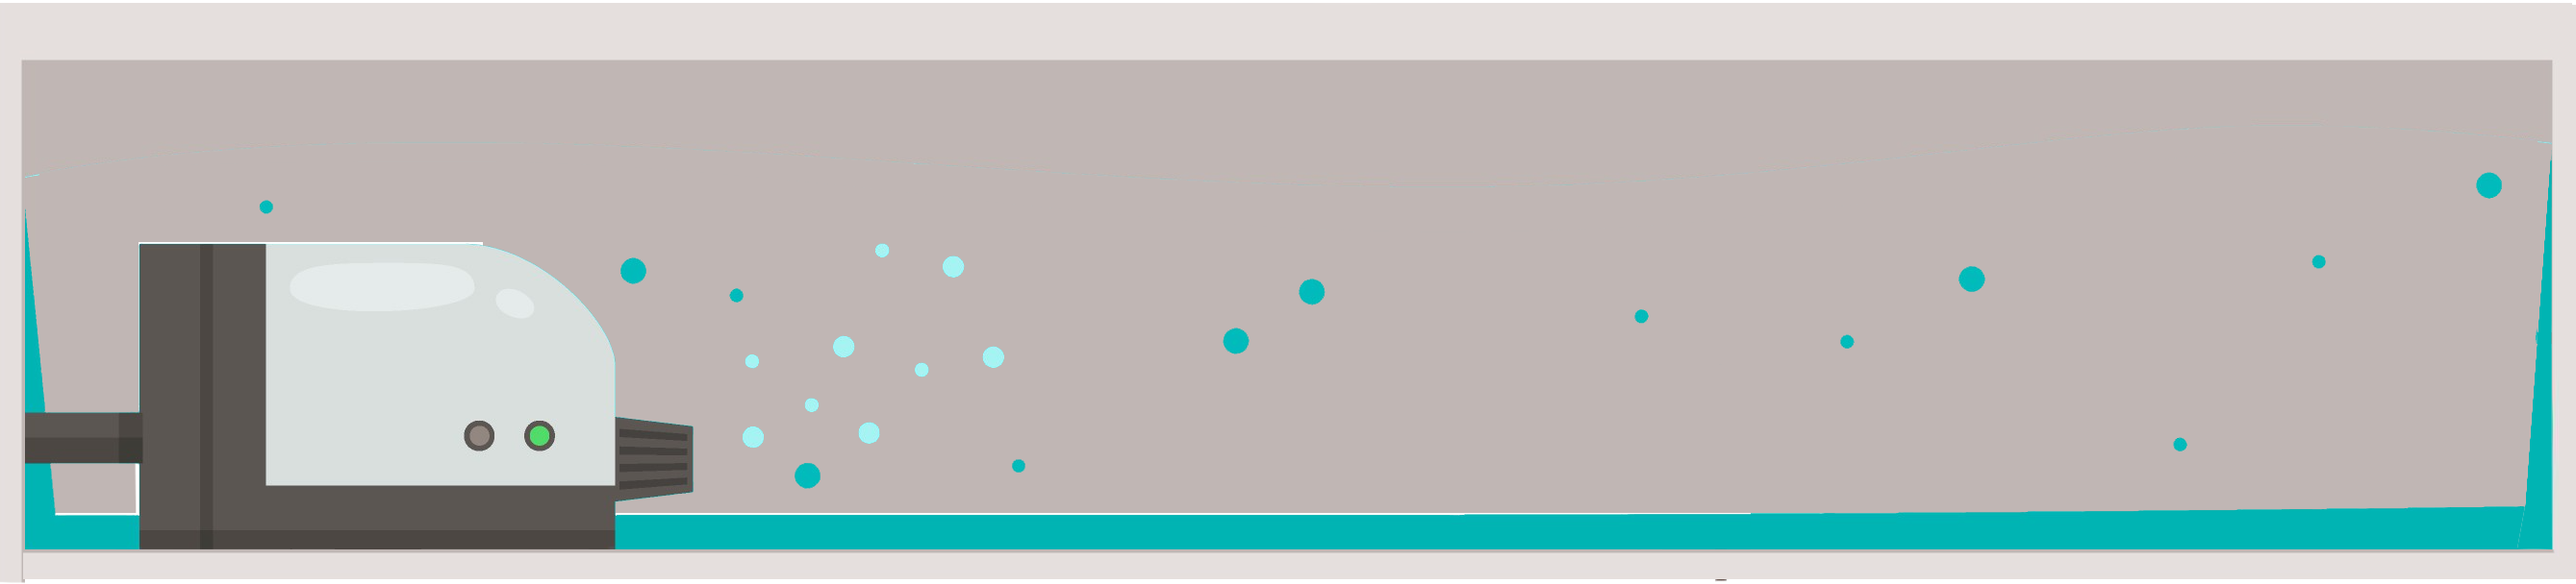
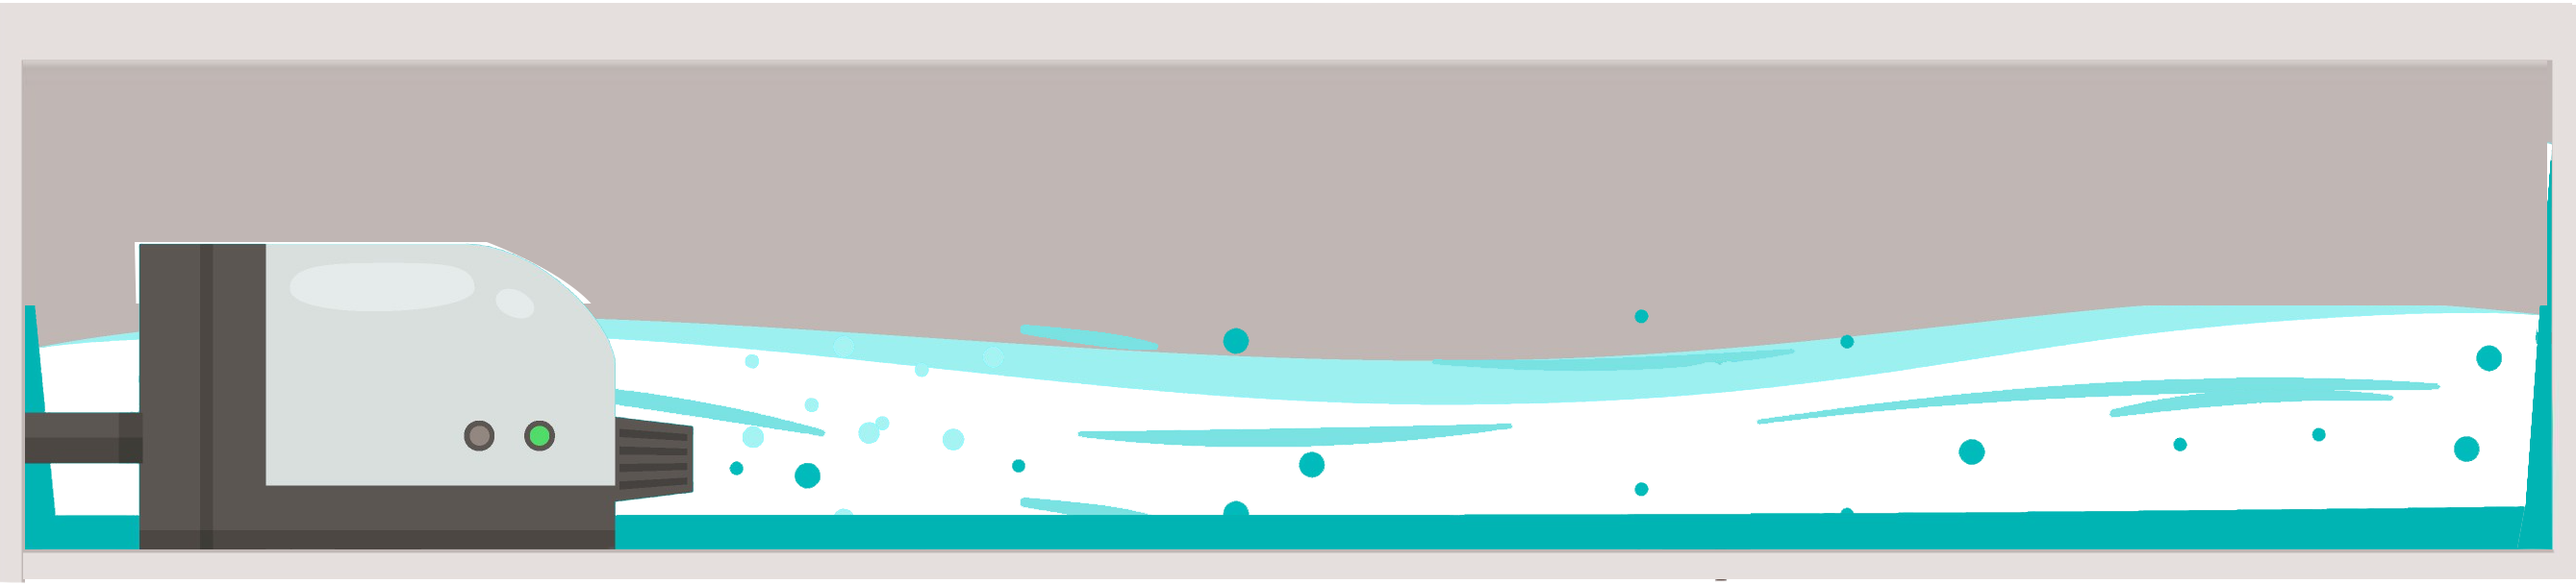
cc

diff --git a/src/app/app.component.scss b/src/app/app.component.scss
@@ -88,6 +88,119 @@
 	margin-left: 5%;
 }
 
+.waterFlow{
+	position: relative;
+	z-index: 999;
+}
+.tank1 img, .tank2 img{
+	position: absolute;
+	top: 0;
+}
+
+.btn-div {
+	position: fixed;
+	bottom: 0;
+	display: flex;
+	width: 100%;
+	button {
+		margin: 10px;
+	}
+}
+.selected{
+    border-color: #28a745 !important;
+	background-color: #28a745 !important;;
+}
+.indicator{
+	width: 28px;
+	height: 28px;
+	border-radius: 50%;
+	// border: 3px solid #fff;
+	opacity: 0.5;
+}
+.greenIndicator{	
+	background-color: #33cd2f;	
+}
+.orangeIndicator{
+	background-color: #ff9501;
+}
+.redIndicator{
+	background-color: #d60103;
+}
+.indicator.show{
+	border: 3px solid #fff;
+	opacity: 1;
+}
+.indiDiv{
+	background-color: rgb(77, 77, 77); 
+	height: 8rem;
+	display: flex;
+	flex-direction: column;
+	justify-content: space-around;
+	align-items: center;
+}
+.bordCont{
+	padding: 10px !important;
+	h4{
+		font-size: 1rem;
+	}
+	p{
+		font-size: 0.8rem;
+		line-height: 15px;
+		margin-bottom: 0;
+	}
+}
+.indBoard{
+	position: relative; 
+	z-index: 9999; 
+	top: 15%;
+	.bgWh{
+		 background-color: #fff; 
+		 height: 8rem; 
+		 padding: 0;
+	}
+}
+
+.waterwave::before{
+	content: '';
+	position: absolute;
+	top: 0;
+	left: 0;
+	width: 100%;
+	height: 100%;
+	background-color: red;
+}
+.valueBoard{
+	position: relative; 
+	z-index: 9999; 
+	top: 40%;
+	.bgWh{
+		 background-color: #fff; 
+		 padding: 1rem;
+		 ul{
+			 list-style: none;
+			 padding-left: 0;
+			 li{
+				 display: flex;
+				 margin-bottom: 1rem;
+				 align-items: center;
+				 img{
+					 width: auto;
+					height: 2rem;
+					margin-right: 10px;
+				 }
+				 div{
+					 font-size: 0.9rem;
+					 font-weight: 500;
+					 span{
+						 font-weight: 900;
+					 }
+				 }
+			 }
+		 }
+	}
+
+}
+
 @media only screen and (max-width: 1600px) {
 	.leftTrays{
 		top: 40%;
@@ -132,6 +245,12 @@
 	.tank1 .waterFlow{
 		margin-left: 5%;
 	}
+	.indBoard{
+		top: 30%;
+	}
+	.valueBoard{
+		top: 50%;
+	}
 }
 @media only screen and (max-width: 1200px) {
 	.leftTrays{
@@ -170,28 +289,58 @@
 	.tank1 .waterFlow{
 		margin-left: -5%;
 	}
-}
-
-
-.waterFlow{
-	position: relative;
-	z-index: 999;
-}
-.tank1 img, .tank2 img{
-	position: absolute;
-	top: 0;
-}
-
-.btn-div {
-	position: fixed;
-	bottom: 0;
-	display: flex;
-	width: 100%;
-	button {
-		margin: 10px;
+	.indBoard{
+		top: 40%;
+	}
+	.valueBoard{
+		top: 50%;
 	}
 }
-.selected{
-    border-color: #28a745 !important;
-	background-color: #28a745 !important;;
+
+@media only screen and (max-width: 768px){
+	.leftTrays{
+		bottom: 24%;
+		left: -6%;
+		top: auto;
+	}
+	.rightTrays{
+		bottom: 23%;
+		right: -6%;
+		top: auto;
+	}
+	.tank1{
+		bottom: 23%;
+		top: auto;
+		left: 3%;
+	}
+	.tank2{
+		bottom: 23%;
+		top: auto;
+		    right: 5%;
+	}
+	.valueBoard{
+		top: 70%;	
+		.bgWh{
+			max-width: 80%;
+    		flex: 0 0 100%;
+			ul{
+				display: flex;
+    justify-content: space-between;
+    margin-bottom: 0;
+			}
+		}	
+	}
+	.tray4, .tray0{
+		display: none;
+	}
+	.btn-div{
+    position: fixed;
+    top: 120px;
+    display: flex;
+    width: 100%;
+	bottom: auto;
 }
+
+}
+
+

diff --git a/src/app/app.component.html b/src/app/app.component.html
@@ -38,7 +38,46 @@
 </div>
 </div> -->
 <div class="container-fluid p-0 bgImg">
-  <div class="container" style="position: relative;  height: 100%;">    
+  <div class="container" style="position: relative;  height: 100%;"> 
+    
+    <div class="row d-flex justify-content-center indBoard">
+      <div class="col-lg-2 col-md-4 bgWh">
+          <div class="row no-gutters">
+
+            <div class="col-md-3 indiDiv">
+                <div class="greenIndicator indicator show"></div>
+                <div class="orangeIndicator indicator"></div>
+                <div class="redIndicator indicator"></div>
+            </div>
+
+            <div class="col-md-9 bordCont">
+                <h4>Caution</h4>
+                <p>Lorem, ipsum dolor sit amet consectetur adipisicing elit consectetur adipisicing elit. </p>
+            </div>
+          </div>
+      </div>
+    </div>
+
+    <div class="row d-flex justify-content-center valueBoard">
+      <div class="col-lg-2 col-md-4 bgWh">
+        <ul>
+          <li>
+            <img src="assets/images/humidity.png">
+            <div>Humidity<br><span>74.52 &#8451;</span></div>
+          </li>
+          <li>
+            <img src="assets/images/thermometer.png">
+            <div>Temarature<br><span>74.52 &#8451;</span></div>
+          </li>
+          <li>
+            <img src="assets/images/conductivity.png">
+            <div>Conductivity<br><span>74.52 &#8451;</span></div>
+          </li>
+        </ul>
+      </div>
+    </div>
+
+
     <div class="leftTrays">
       <img src="assets/images/hydroponic{{selectedIndex}}.png" class="tray0">
       <img src="assets/images/hydroponic{{selectedIndex}}.png" class="tray1">
@@ -47,7 +86,7 @@
     </div>
     <div class="tank1">   
       <div class="waterFlow"  style="width: 100%; height: 80px; width: 300px; overflow: hidden; border: 3px solid #dadada;">
-        <img src="assets/images/waterflow.gif" class="waterwave">
+        <img src="assets/images/waterflow{{selectedIndex}}.gif" class="waterwave">
         <img src="assets/images/tank{{selectedIndex}}.png" width="300" class="tankwater" style="height: 80px;">
       </div>
     </div>
@@ -59,7 +98,7 @@
     </div>
     <div class="tank2">
       <div class="waterFlow" style="width: 100%; height: 80px; width: 300px; overflow: hidden; border: 3px solid #dadada;">
-        <img src="assets/images/waterflow.gif" class="waterwave">
+        <img src="assets/images/waterflow{{selectedIndex}}.gif" class="waterwave">
         <img src="assets/images/tank{{selectedIndex}}.png" width="300" class="tankwater" style="height: 80px;">
       </div>
     </div>
